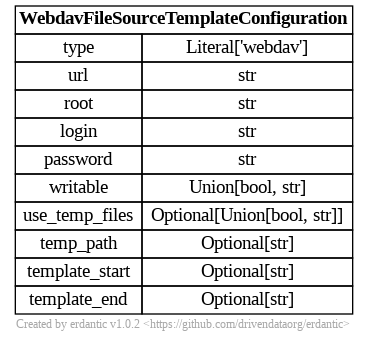
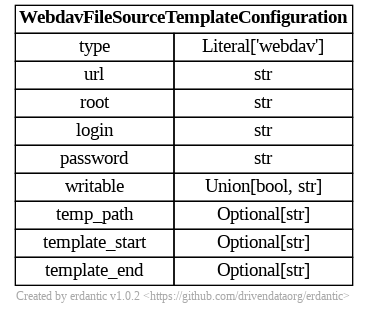
remove use_temp_files configuration parameter

Changed region(s): [[0.03, 0.0, 0.9591, 0.9714]]

diff --git a/lib/galaxy/files/templates/models.py b/lib/galaxy/files/templates/models.py
@@ -111,7 +111,6 @@ class WebdavFileSourceTemplateConfiguration(StrictModel):
     login: Union[str, TemplateExpansion]
     password: Union[str, TemplateExpansion]
     writable: Union[bool, TemplateExpansion] = False
-    use_temp_files: Optional[Union[bool, TemplateExpansion]] = None
     temp_path: Optional[Union[str, TemplateExpansion]] = None
     template_start: Optional[str] = None
     template_end: Optional[str] = None
@@ -124,7 +123,6 @@ class WebdavFileSourceConfiguration(StrictModel):
     login: str
     password: str
     writable: bool = False
-    use_temp_files: Optional[bool] = None
     temp_path: Optional[str] = None
 
 
